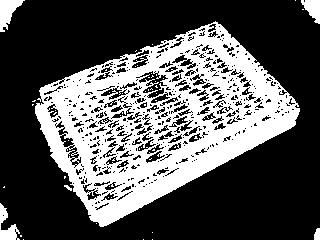
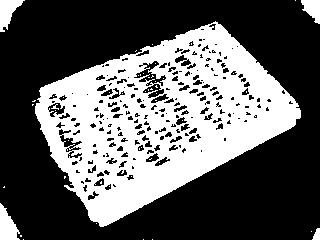
feat: Add new segmentation results

diff --git a/segmentation.py b/segmentation.py
@@ -8,7 +8,7 @@ Image.LOAD_TRUNCATED_IMAGES = True
 
 # параметры
 sigma = 60
-lambda_ = 2
+lambda_ = 1
 
 # ширина, высота и количество пикселей в изображениия
 width = 0
@@ -211,9 +211,9 @@ def segmentation(image_name, obj_pixels, bkg_pixels):
     # получаем минимальный разрез с помощью алгоритма Диница поиска максимального потока
     global graph
     graph = Graph(adj_matrix, 0, adj_matrix_size-1)
-    #_, obj = graph.dinic(cut=True)
-    _, partition = nx.algorithms.flow.minimum_cut(adj_matrix, 0, adj_matrix_size-1)
-    obj, non_reachable = partition
+    _, obj = graph.dinic(cut=True)
+    #_, partition = nx.algorithms.flow.minimum_cut(adj_matrix, 0, adj_matrix_size-1)
+    #obj, non_reachable = partition
 
     # пиксели из множества достижимых вершин обозначим 255 (белый), остальные - 0 (черный) и получим ч/б изображение
     img_result = [([0] * width) for i in range(height)]
